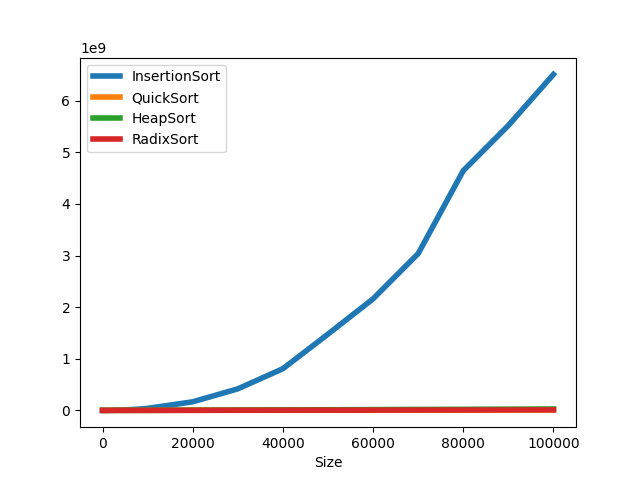
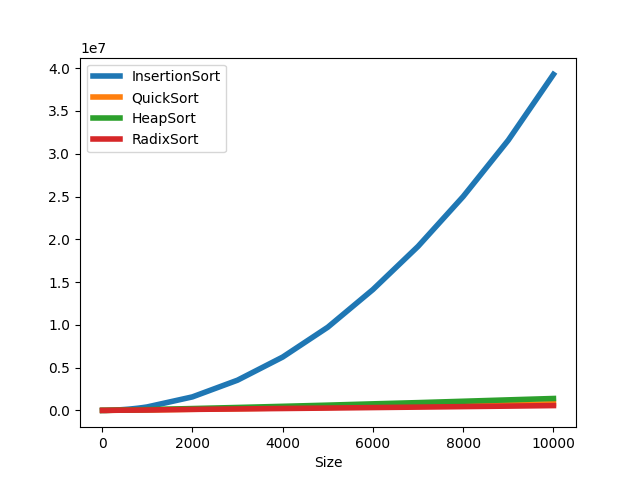
New graphs and fixed HeapSort

diff --git a/src/Main.java b/src/Main.java
@@ -23,14 +23,14 @@ public class Main {
 
             writer.write("Size InsertionSort QuickSort HeapSort RadixSort\n");
 
-            for (int size = 10; size < 100001; size += sizeMultiplier, System.out.println(size)) {
+            for (int size = 10; size < 10001; size += sizeMultiplier, System.out.println(size)) {
 
                 insertionTime = 0;
                 quickTime = 0;
                 heapTime = 0;
                 radixTime = 0;
 
-                for (int j = 0; j < 100; j++) {
+                for (int j = 0; j < 10000; j++) {
 
                     ArrayList<Integer> insertionArray = new ArrayList<Integer>();
                     ArrayList<Integer> heapArray = new ArrayList<Integer>();
@@ -67,14 +67,12 @@ public class Main {
 
                 }
 
-                writer.write(size + " " + (insertionTime / 100) + " " + (quickTime / 100) + " " + (heapTime / 100)
-                        + " " + (radixTime / 100) + "\n");
+                writer.write(size + " " + (insertionTime / 10000) + " " + (quickTime / 10000) + " " + (heapTime / 10000)
+                        + " " + (radixTime / 10000) + "\n");
 
                 if(size == 100)
                     sizeMultiplier *= 10;
                 else if(size == 1000)
-                    sizeMultiplier *= 10;
-                else if(size == 10000)
                     sizeMultiplier *= 10;
 
 

diff --git a/src/Heap.java b/src/Heap.java
@@ -40,6 +40,8 @@ public class Heap {
                 parent = (j-1)/2;
                     if (array.get(j) > array.get(parent))
                         Collections.swap(array, j, parent);
+                    else
+                        break;
             }
         }
     }
@@ -47,7 +49,6 @@ public class Heap {
     public static ArrayList<Integer> sort(ArrayList<Integer> array){
         makeHeap(array);
         int elementToFix;
-        boolean heapFixed;
 
         for(int i = array.size(); i > 1;){
             Collections.swap(array,0, i - 1);
